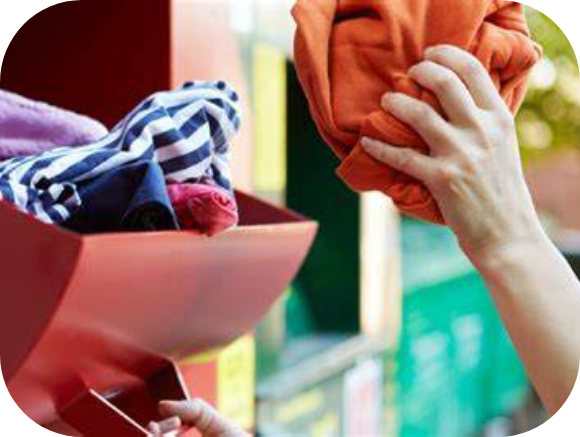
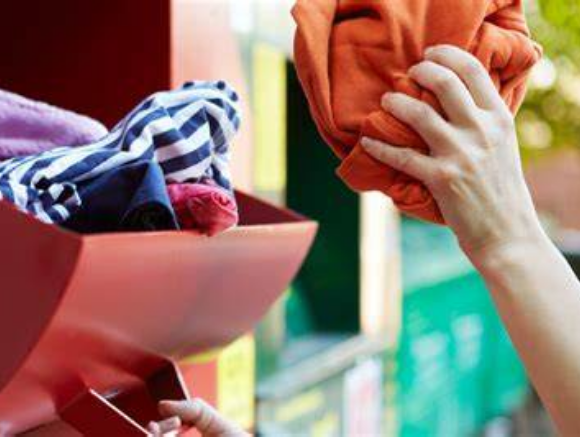
fixed resize of images and text (added width/height constraints). NEED MEDIAQUERY AT 1430px

diff --git a/css/main.min.css b/css/main.min.css
@@ -1,2 +1,2 @@
-@import url("https://fonts.googleapis.com/css?family=Montserrat:400,500,600,700&display=swap");*{margin:0;padding:0;border:0;outline:0;font-size:100%;vertical-align:middle}html{font-family:'Montserrat', sans-serif}body{width:100%}h1{font-size:72px;font-weight:700;color:#f6f6f6}h2{font-size:52px;font-weight:500;color:#656e79}h3{font-size:36px;font-weight:700;color:#f6f6f6}h4{font-size:28px;font-weight:600;color:#f6f6f6}p{font-size:22px;font-weight:400;color:#656e79}.btnOutline{display:block;text-decoration:none;color:#f90;background-color:#fff;border-radius:26px;width:320px;height:70px;line-height:70px;text-align:center;font-size:20px;font-weight:600}.btnFilled{display:block;text-decoration:none;color:#f6f6f6;background:url("../image/background_filledButton.svg") no-repeat;border-radius:50px;width:590px;height:100px;line-height:100px;text-align:center;font-size:32px;font-weight:700}.content-p{line-height:2.5em}nav{line-height:150px;text-align:left}nav a{text-decoration:none;color:#f6f6f6;font-size:16px;font-weight:700}nav a img{vertical-align:center}nav a:first-child{margin-left:4vw}nav a:last-child{float:right;font-size:36px;color:#19aadd;margin-right:11vw}header{height:100vh;min-height:100vh;background-image:url("../image/background_header.png");background-repeat:no-repeat;background-size:100vw 100vh;background-position:top left}header h1{text-align:center;margin:calc(35vh - 150px) auto 0 auto}header p{text-align:center;margin:5vh 18.6vw 0 18.6vw;line-height:55px;font-size:33px}.mission{-webkit-box-sizing:border-box;box-sizing:border-box;height:100vh;min-height:100vh;background-image:url("../image/background_mission.png");background-repeat:no-repeat;background-size:100vw 100vh;background-position:top left;padding-top:23vh}.mission h2{text-align:center}.mission .content{margin:4vh 11vw 0 11vw;display:-webkit-box;display:-ms-flexbox;display:flex;-webkit-box-pack:justify;-ms-flex-pack:justify;justify-content:space-between}.mission .content p{padding-top:2vh;width:46.5vw}.activities{-webkit-box-sizing:border-box;box-sizing:border-box;height:100vh;min-height:100vh;background-image:url("../image/background_activities.png");background-repeat:no-repeat;background-size:100vw 100vh;background-position:top left;padding-top:16.7vh}.activities h2{text-align:left;margin-left:13.65vw}.activities .content{margin:0 4.3vw 0 13.65vw;display:-webkit-box;display:-ms-flexbox;display:flex;-webkit-box-pack:justify;-ms-flex-pack:justify;justify-content:space-between}.activities .content p{-ms-flex-item-align:center;-ms-grid-row-align:center;align-self:center;width:46.5vw}.activities a{margin-left:13.65vw}.help{-webkit-box-sizing:border-box;box-sizing:border-box;height:100vh;min-height:100vh;background-image:url("../image/background_help.png");background-repeat:no-repeat;background-size:100vw 100vh;background-position:top left;padding-top:16.7vh}.help h2{text-align:center;margin-left:8.5vw;margin-bottom:3vh}.help .content{margin:0 11.5vw 0 5.2vw;display:-webkit-box;display:-ms-flexbox;display:flex;-webkit-box-pack:justify;-ms-flex-pack:justify;justify-content:space-between}.help .content p{-ms-flex-item-align:center;-ms-grid-row-align:center;align-self:center;width:46vw}.help a{margin-top:9.3vh;margin-left:46.9vw}footer{-webkit-box-sizing:border-box;box-sizing:border-box;height:79.35vh;min-height:79.35vh;background-image:url("../image/background_footer.png");background-repeat:no-repeat;background-size:100vw 79.35vh;background-position:top left;padding-top:16.7vh}footer p{color:#f6f6f6;margin-top:1vh;font-size:18px}footer .home a.home_title{display:block;text-align:center;margin:30vh auto 0 auto;text-decoration:none;color:#f6f6f6}footer .home a.home_icon{display:block;text-align:center;margin:1vh auto 0 auto}footer .container{margin:1.6vh 8.6vw 0 8.6vw;display:-webkit-box;display:-ms-flexbox;display:flex;-webkit-box-pack:justify;-ms-flex-pack:justify;justify-content:space-between;text-align:center}footer .container .location{width:17vw}footer .container .location p{word-wrap:normal;text-align:center}footer .container .contact{width:16.7vw;padding-top:4.1vh}footer .container .contact h3{margin-bottom:1.5vh}footer .container .contact .sm_icon{margin:0 0.9vw}footer .container .volunteer{width:17vw}footer .container .volunteer p{word-wrap:normal;text-align:center}footer .copyright{text-align:center;display:block;margin:4vh auto 0 auto;font-size:12px}
+@import url("https://fonts.googleapis.com/css?family=Montserrat:400,500,600,700&display=swap");*{margin:0;padding:0;border:0;outline:0;font-size:100%;vertical-align:middle}html{font-family:'Montserrat', sans-serif}body{width:100%}h1{font-size:72px;font-weight:700;color:#f6f6f6}h2{font-size:52px;font-weight:500;color:#656e79}h3{font-size:36px;font-weight:700;color:#f6f6f6}h4{font-size:28px;font-weight:600;color:#f6f6f6}p{font-size:22px;font-weight:400;color:#656e79}.btnOutline{display:block;text-decoration:none;color:#f90;background-color:#fff;border-radius:26px;width:320px;height:70px;line-height:70px;text-align:center;font-size:20px;font-weight:600}.btnFilled{display:block;text-decoration:none;color:#f6f6f6;background:url("../image/background_filledButton.svg") no-repeat;border-radius:50px;width:590px;height:100px;line-height:100px;text-align:center;font-size:32px;font-weight:700}.content-p{line-height:2.5em}nav{line-height:150px;text-align:left}nav a{text-decoration:none;color:#f6f6f6;font-size:16px;font-weight:700}nav a img{vertical-align:center}nav a:first-child{margin-left:4vw}nav a:last-child{float:right;font-size:36px;color:#19aadd;margin-right:11vw}header{height:100vh;min-height:100vh;background-image:url("../image/background_header.png");background-repeat:no-repeat;background-size:100vw 100vh;background-position:top left}header h1{text-align:center;margin:calc(35vh - 150px) auto 0 auto}header p{text-align:center;margin:5vh 18.6vw 0 18.6vw;line-height:55px;font-size:33px}.mission{-webkit-box-sizing:border-box;box-sizing:border-box;height:100vh;min-height:100vh;background-image:url("../image/background_mission.png");background-repeat:no-repeat;background-size:100vw 100vh;background-position:top left;padding-top:23vh}.mission h2{text-align:center}.mission .content{margin:4vh 11vw 0 11vw;display:-webkit-box;display:-ms-flexbox;display:flex;-webkit-box-pack:justify;-ms-flex-pack:justify;justify-content:space-between}.mission .content img{-o-object-fit:cover;object-fit:cover;width:23.7vw;height:38.5vh;border-radius:30px}.mission .content p{padding-top:2vh;width:46.5vw}.activities{-webkit-box-sizing:border-box;box-sizing:border-box;height:100vh;min-height:100vh;background-image:url("../image/background_activities.png");background-repeat:no-repeat;background-size:100vw 100vh;background-position:top left;padding-top:16.7vh}.activities h2{text-align:left;margin-left:13.65vw}.activities .content{margin:3vh 4.3vw 0 13.65vw;display:-webkit-box;display:-ms-flexbox;display:flex;-webkit-box-pack:justify;-ms-flex-pack:justify;justify-content:space-between}.activities .content img{-o-object-fit:cover;object-fit:cover;width:29.1vw;height:47.2vh;border-radius:30px}.activities .content p{padding-top:2vh;width:46.5vw}.activities a{margin-top:3vh;margin-left:13.65vw}.help{-webkit-box-sizing:border-box;box-sizing:border-box;height:100vh;min-height:100vh;background-image:url("../image/background_help.png");background-repeat:no-repeat;background-size:100vw 100vh;background-position:top left;padding-top:16.7vh}.help h2{text-align:center;margin-left:8.5vw;margin-bottom:3vh}.help .content{margin:0 11.5vw 0 4.3vw;display:-webkit-box;display:-ms-flexbox;display:flex;-webkit-box-pack:justify;-ms-flex-pack:justify;justify-content:space-between}.help .content img{-o-object-fit:cover;object-fit:cover;width:29vw;height:40.5vh;border-radius:30px}.help .content p{-ms-flex-item-align:center;-ms-grid-row-align:center;align-self:center;width:46vw}.help a{margin-top:9.3vh;margin-left:46.9vw}footer{-webkit-box-sizing:border-box;box-sizing:border-box;height:79.35vh;min-height:79.35vh;background-image:url("../image/background_footer.png");background-repeat:no-repeat;background-size:100vw 79.35vh;background-position:top left;padding-top:16.7vh}footer p{color:#f6f6f6;margin-top:1vh;font-size:18px}footer .home a.home_title{display:block;text-align:center;margin:30vh auto 0 auto;text-decoration:none;color:#f6f6f6}footer .home a.home_icon{display:block;text-align:center;margin:1vh auto 0 auto}footer .container{margin:1.6vh 8.6vw 0 8.6vw;display:-webkit-box;display:-ms-flexbox;display:flex;-webkit-box-pack:justify;-ms-flex-pack:justify;justify-content:space-between;text-align:center}footer .container .location{width:17vw}footer .container .location p{word-wrap:normal;text-align:center}footer .container .contact{width:16.7vw;padding-top:4.1vh}footer .container .contact h3{margin-bottom:1.5vh}footer .container .contact .sm_icon{margin:0 0.9vw}footer .container .volunteer{width:17vw}footer .container .volunteer p{word-wrap:normal;text-align:center}footer .copyright{text-align:center;display:block;margin:4vh auto 0 auto;font-size:12px}
 /*# sourceMappingURL=main.min.css.map */

diff --git a/scss/main.scss b/scss/main.scss
@@ -153,6 +153,10 @@ header {
     display: flex;
     justify-content: space-between;
     img {
+      object-fit: cover;
+      width: 23.7vw;
+      height: 38.5vh;
+      border-radius: 30px;
     }
 
     p {
@@ -179,19 +183,24 @@ header {
   }
 
   .content {
-    margin: 0 4.3vw 0 13.65vw;
+    margin: 3vh 4.3vw 0 13.65vw;
     display: flex;
     justify-content: space-between;
     img {
+      object-fit: cover;
+      width: 29.1vw;
+      height: 47.2vh;
+      border-radius: 30px;
     }
 
     p {
-      align-self: center;
+      padding-top: 2vh;
       width: 46.5vw;
     }
   }
 
   a {
+    margin-top: 3vh;
     margin-left: 13.65vw;
   }
 }
@@ -213,10 +222,14 @@ header {
   }
 
   .content {
-    margin: 0 11.5vw 0 5.2vw;
+    margin: 0 11.5vw 0 4.3vw;
     display: flex;
     justify-content: space-between;
     img {
+      object-fit: cover;
+      width: 29vw;
+      height: 40.5vh;
+      border-radius: 30px;
     }
 
     p {
